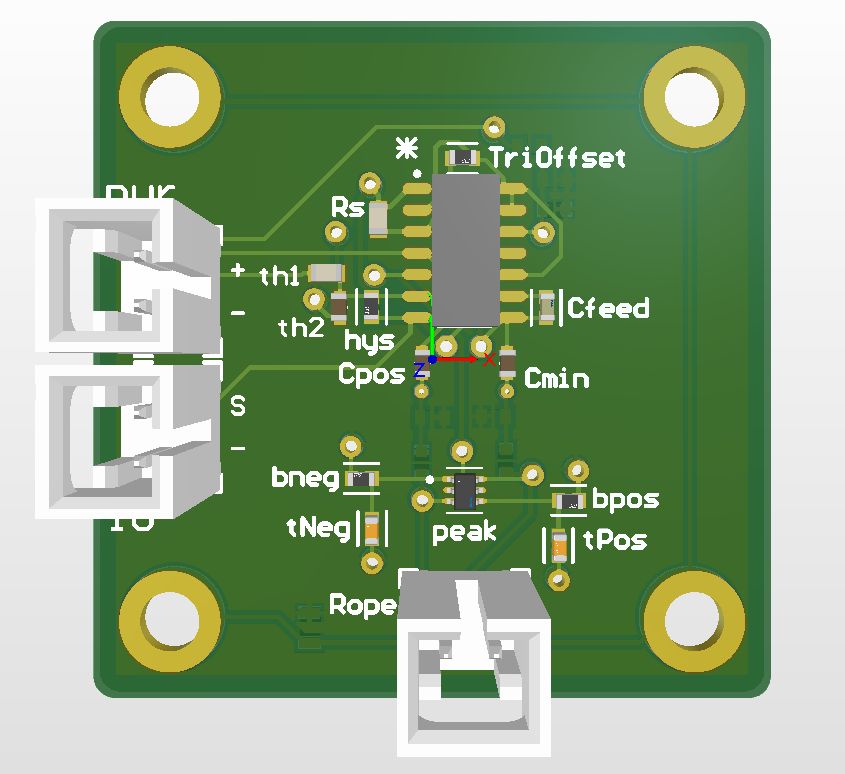
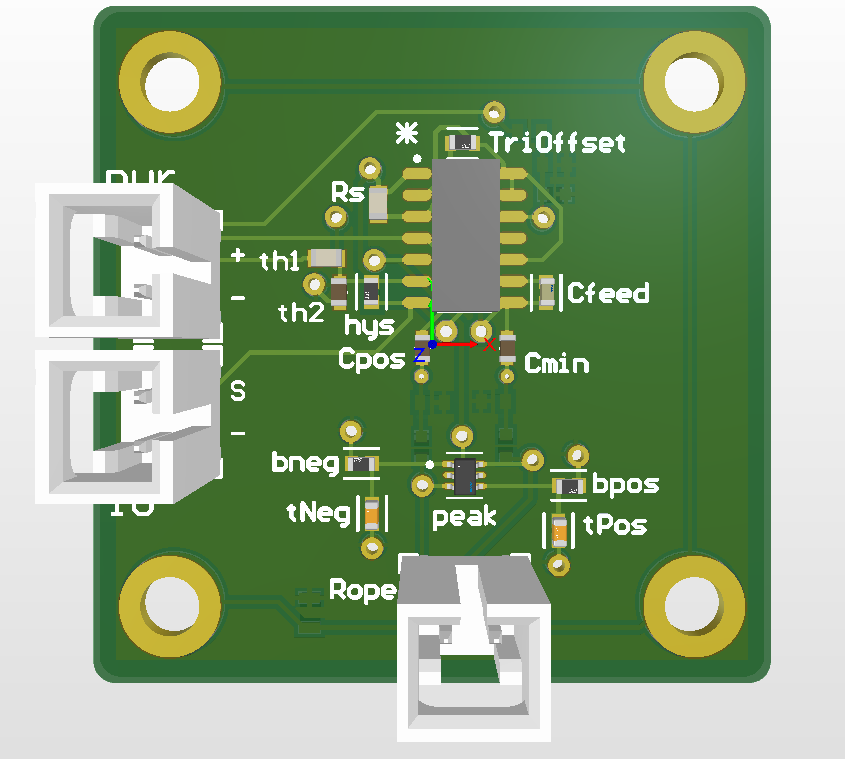
Balance hero headline wrap, trim PCB render margins

diff --git a/assets/css/site.css b/assets/css/site.css
@@ -115,8 +115,9 @@ nav.site-nav a[aria-current="page"] { color: var(--ink); border-bottom-color: va
 .hero h1 {
   font-family: var(--serif);
   font-weight: 600;
-  font-size: clamp(2.6rem, 6vw, 4rem);
-  line-height: 1.05;
+  font-size: clamp(2.4rem, 4.8vw, 3.4rem);
+  line-height: 1.12;
+  text-wrap: balance;
   margin-bottom: 1.2rem;
 }
 
